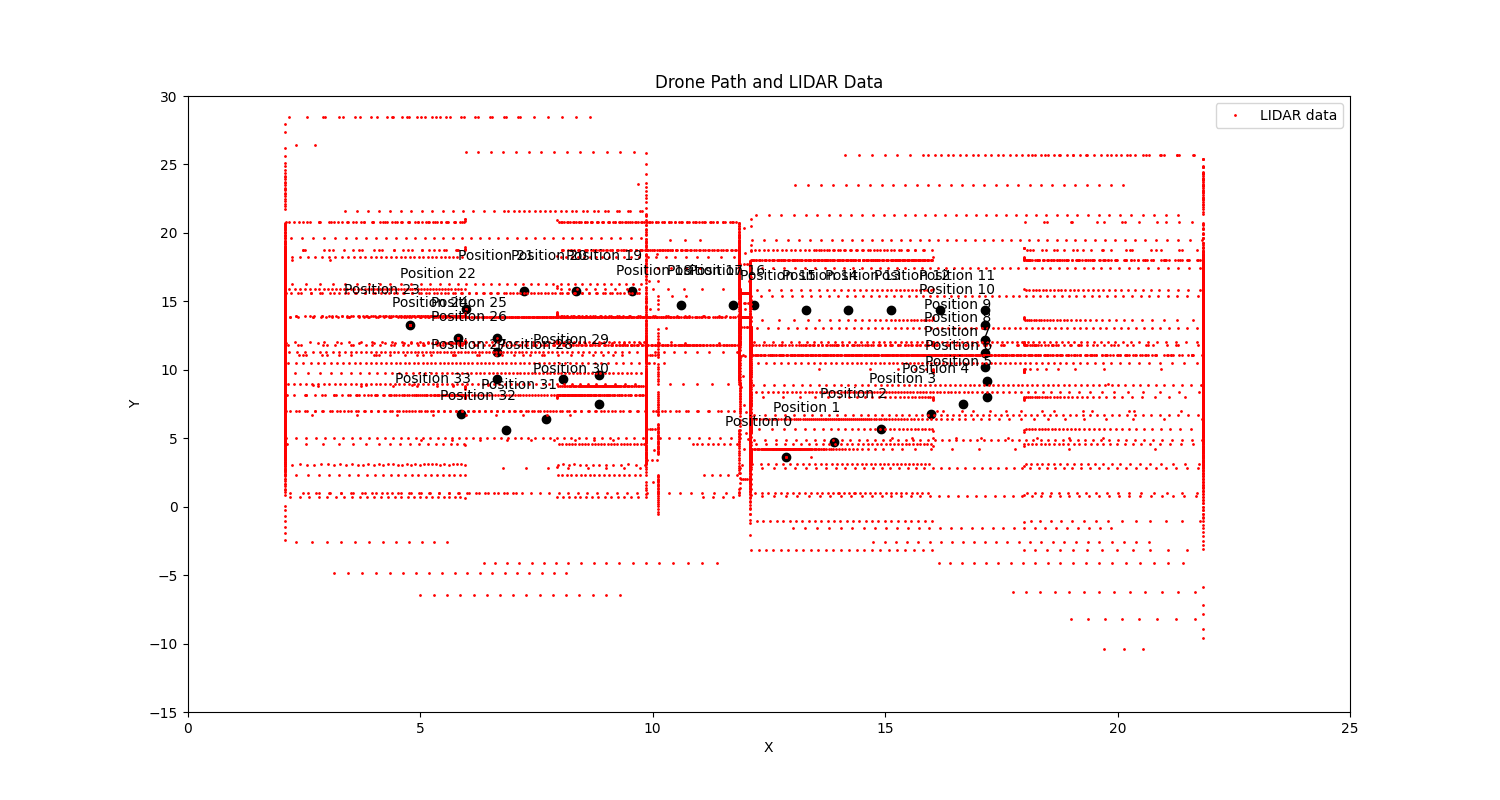
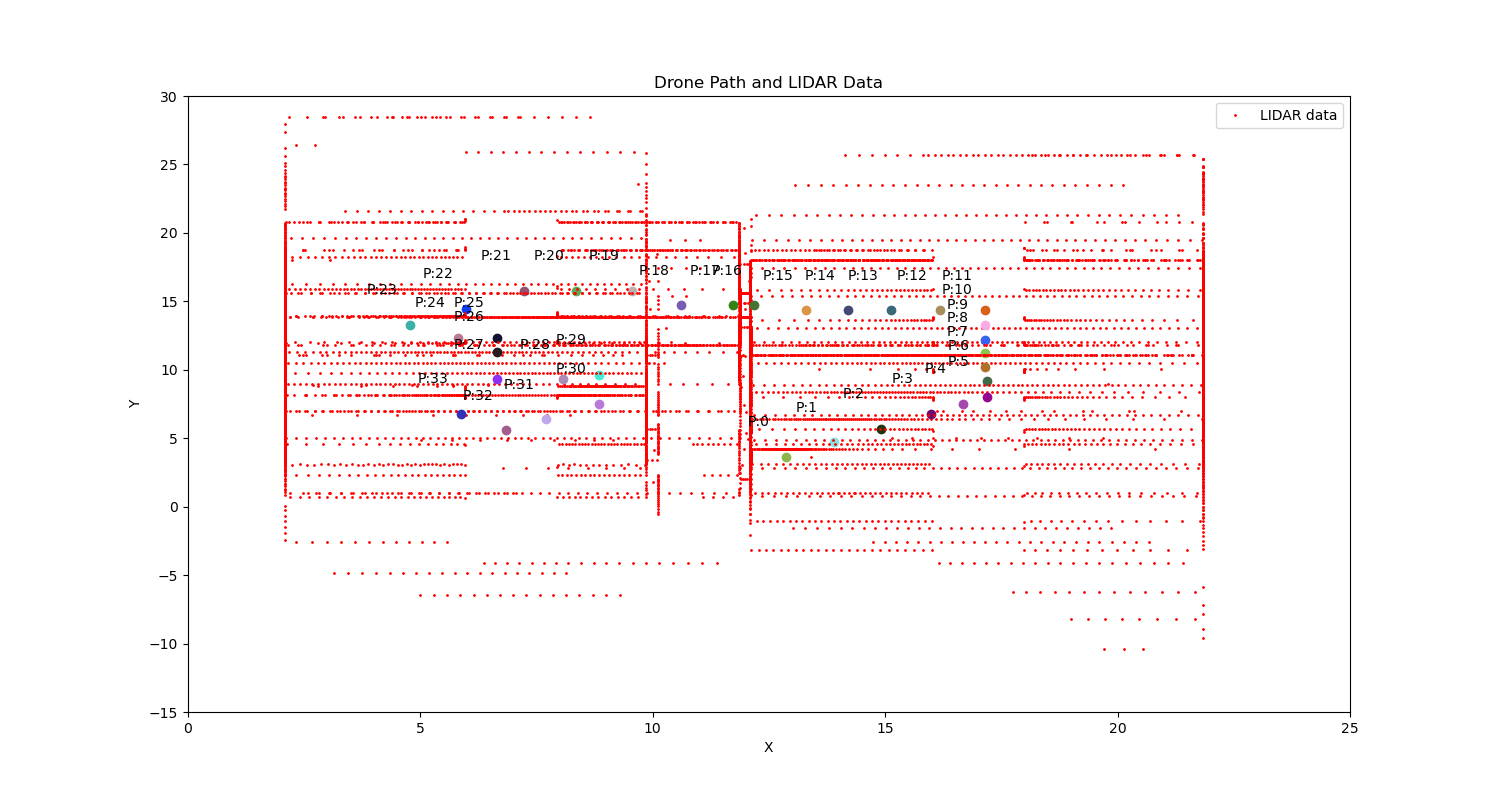
task2 but with random values measurements

diff --git a/task2.py b/task2.py
@@ -1,0 +1,88 @@
+#!/usr/bin/env python3
+__author__ = "Ashesh Vasalya"
+
+import numpy as numpy
+import matplotlib.pyplot as plt
+
+from libs import loghandler
+
+logHandle = loghandler.LogHandler()
+
+
+def GenerateRandomFlightPathAndSweep(positions, angles, distances):
+    """
+    Plot the drone flight path and simulated LIDAR measurements on a 2D graph.
+
+    Args:
+        positions (numpy.ndarray): Array of drone positions of shape (numSamples, 2).
+        angles (numpy.ndarray): Array of LIDAR measurement angles in radians of length numSamples.
+        distances (numpy.ndarray): Array of simulated LIDAR measurement distances of length numSamples.
+
+    Returns:
+        None.
+
+    Raises:
+        ValueError: If the input arrays are not of the correct shape and length.
+
+    Examples:
+        >>> positions = numpy.array([[0, 0], [1, 1], [2, 2]])
+        >>> angles = numpy.array([0, 0.5 * numpy.pi, numpy.pi])
+        >>> distances = numpy.array([1, 2, 1])
+        >>> GenerateRandomFlightPathAndSweep(positions, angles, distances)
+
+    """
+    if (
+        not isinstance(positions, numpy.ndarray)
+        or not isinstance(angles, numpy.ndarray)
+        or not isinstance(distances, numpy.ndarray)
+    ):
+        raise ValueError("Inputs must be numpy ndarrays.")
+    if positions.shape[1] != 2:
+        raise ValueError("Positions array must have shape (numSamples, 2).")
+    if angles.shape[0] != distances.shape[0]:
+        raise ValueError("Angles and distances arrays must have the same length.")
+
+    logHandle.log.info("preparing to plot flight path and sweep measurements.")
+    for index, position in enumerate(positions):
+        # Plot the drone position
+        ax.scatter(position[0], position[1], color="black", marker="o")
+        ax.annotate(
+            f"Position {index}",
+            xy=position,
+            xytext=(-20, 20),
+            textcoords="offset points",
+            ha="center",
+            va="bottom",
+        )
+
+        # Plot the LIDAR data
+        x = position[0] + distances * numpy.cos(angles)
+        y = position[1] + distances * numpy.sin(angles)
+        ax.plot(x, y, color="blue")
+
+    # Add labels and legend
+    ax.set_xlabel("X")
+    ax.set_ylabel("Y")
+    ax.set_title("Drone Path and LIDAR Data")
+    ax.legend(["LIDAR data"])
+    plt.draw()
+    plt.pause(0.001)
+    input("Press [enter] to exit.")
+
+
+if __name__ == "__main__":
+    logHandle.log.debug("Generate some random data to simulate LIDAR measurements")
+    numSamples = 100
+    angles = numpy.linspace(0, 2 * numpy.pi, numSamples, endpoint=False)
+    distances = numpy.random.rand(numSamples)
+
+    logHandle.log.debug("Generate some random drone positions")
+    num_positions = 10
+    positions = numpy.random.rand(num_positions, 2) * 10
+
+    logHandle.log.debug("Plot the drone path and LIDAR data")
+    plt.ion()
+    plt.show()
+    fig, ax = plt.subplots()
+
+    GenerateRandomFlightPathAndSweep(positions, angles, distances)

diff --git a/README.md b/README.md
@@ -8,6 +8,7 @@
 ├── data
 │   ├── FlightPath.csv
 │   └── LIDARPoints.csv
+├── environment.yml
 ├── libs
 │   ├── __init__.py
 │   ├── lidarutils.py
@@ -15,8 +16,9 @@
 │   └── mapping
 │       ├── __init__.py
 │       └── lidar_to_grid_map.py
-├── main.py
 ├── output
+├── task1.py
+├── task2.py
 └── test_lidar_analysis.py
 ```
 
@@ -47,7 +49,7 @@ conda deactivate
 ### Create a program to provide an appropriate visualization of the drone’s path and the LIDAR data. Ideally, the display should be able to show 1 sweep (1 scan ID) of data in isolation as well as all the sweeps combined together. This can be on separate displays or on the same display (with individual sweeps shown by highlighting for example)
 
 ## Result
-### `main.py`
+### `task1.py`
 > This script is designed to read flight path and LiDAR measurement files and extract and visualize data from them. It takes command-line arguments using `argparse` module, and the functionality of the script depends on the arguments passed.
 
 #### Required Arguments
@@ -60,7 +62,7 @@ conda deactivate
 - `--allSweepsCombined`: Visualize all drone locations along with each sweep's measurements. Default is `False`.
 
 ### Usage
-`python main.py --flightPath <pathToFlightPath.csv> --lidarPoints <pathToLidarData.csv> [--show] [--sweepsInIsolation] [--allSweepsCombined]`
+`python task1.py --flightPath <pathToFlightPath.csv> --lidarPoints <pathToLidarData.csv> [--show] [--sweepsInIsolation] [--allSweepsCombined]`
 
 - `--flightPath`: Path to the flight path coordinates file.
 - `--lidarPoints`: Path to the LiDAR measurements file.
@@ -71,7 +73,7 @@ conda deactivate
 #### example:
 ```
 $ conda activate lidar_analysis
-$ python main.py --flightPath ./data/FlightPath.csv --lidarPoints ./data/LIDARPoints.csv --show --sweepsInIsolation --allSweepsCombined
+$ python task1.py --flightPath ./data/FlightPath.csv --lidarPoints ./data/LIDARPoints.csv --show --sweepsInIsolation --allSweepsCombined
 ```
 ### Functionality
 - Check if required input arguments are present and valid files.
@@ -189,7 +191,19 @@ FAILED test_lidar_analysis.py::TestExtractSweepsFromMeasurements::test_inf_value
 
 # TASK 2: Simulation
 ### Generate new LIDARDPoints data based on a new room layout and new plausible flight plan. This data is not provided so you will need to create the layout and flight plan yourself. This can either be done manually (ensure you include your data with your submission) or programmatically.
-- TODO
+## Result
+### `task2.py`
+> This script simulates LIDAR measurements and drone positions using NumPy and Matplotlib libraries in Python. The simulated LIDAR measurements are created by generating random values for angles and distances, while the drone positions are generated using NumPy's random.rand function.
+## Usage
+```
+$ conda activate lidar_analysis
+$ python task2.py
+```
+## Output
+- *Note*: Random number generator is being used to generate values for angles, distances, drone positions, therefore it will give different result on every run.
+- Below is an example from one of those runs.
+
+![sweepID_10](output/outputTask2.png)
 
 # TASK 3: Flight optimization
 ### Based on the data provided, find a better flight path that will result in the shortest possible travel time but still goes through the existing rooms. (Assume the first sampled location is the start point and the last sampled location is the end point)

diff --git a/CHANGELOG.md b/CHANGELOG.md
@@ -2,6 +2,16 @@
 
 All notable changes to this project will be documented in this file.
 
+## [2.2.0] - 2023-04-23
+
+## Added
+- Added `task2.py` to address assignment related to Task2.
+- The `task2.py` simulates LIDAR measurements and drone positions using random values for sweep measurements and drone positions.
+
+## Changed
+- Renamed `main.py` to `task1.py` to be consistent with the assignments.
+
+
 ## [2.1.0] - 2023-04-23
 
 ## Added
